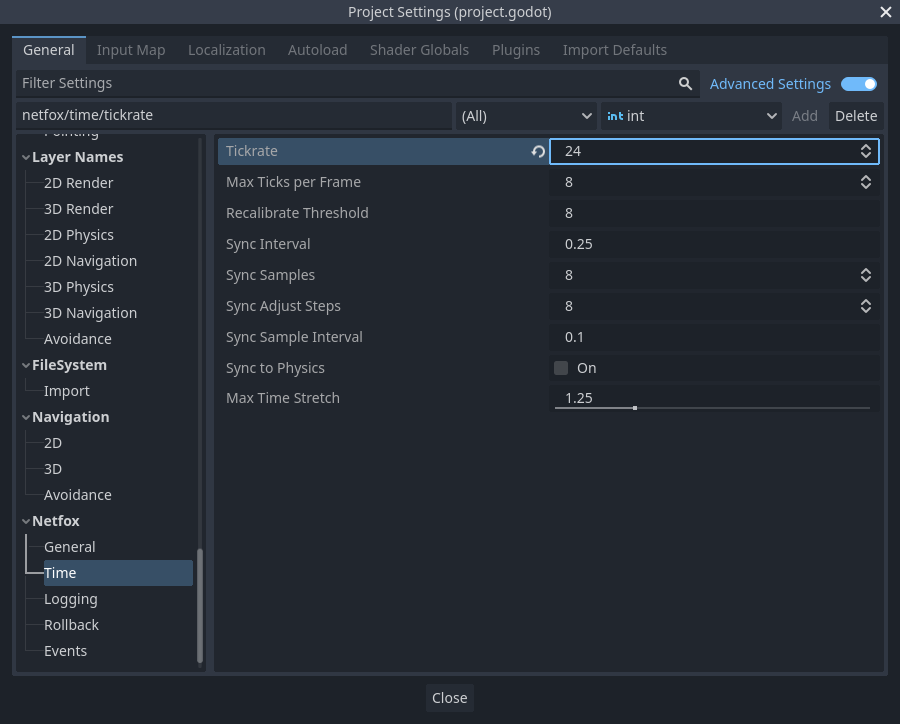
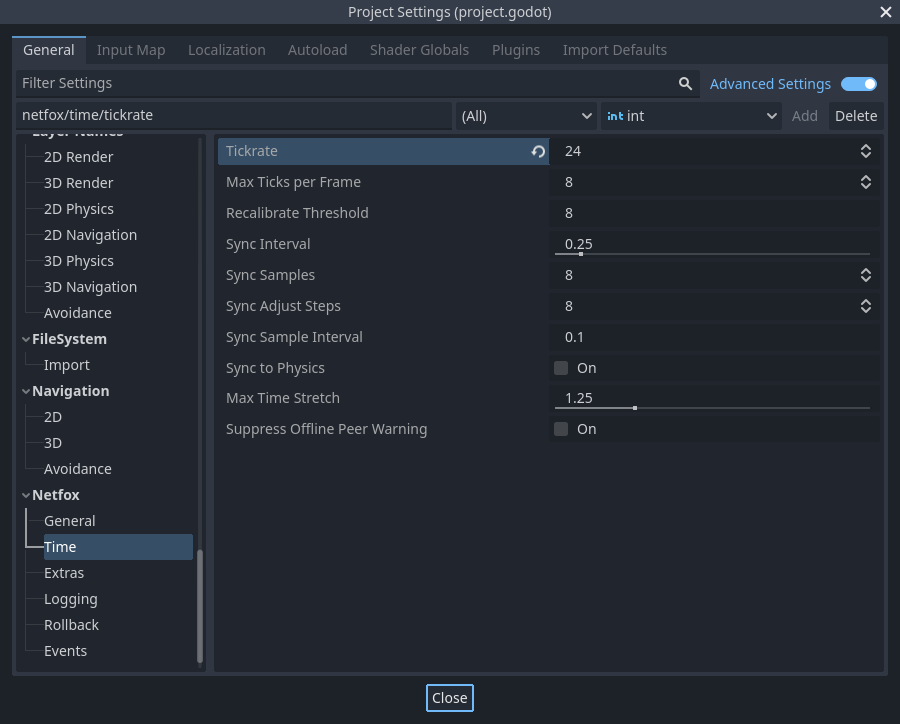
chore: Warn on invalid NetworkTime.start() calls

diff --git a/docs/netfox/guides/network-time.md b/docs/netfox/guides/network-time.md
@@ -197,4 +197,13 @@ resting time between roundtrip measurements.
 process when enabled. This can be useful in cases where a lot of physics
 operations need to be done as part of the tick- or the rollback loop.
 
+*Suppress Offline Peer Warning* suppresses warning when `NetworkTime.start()` is
+called with the active [multiplayer peer] being an [OfflineMultiplayerPeer]. In
+most cases, this warning means that the tick loop was unintentionally started
+before connecting to a game or hosting one. When this settings is enabled, the
+warning is not printed, instead assuming the [OfflineMultiplayerPeer] is
+intentional.
+
 [NetworkTimeSynchronizer]: ./network-time-synchronizer.md
+[multiplayer peer]: https://docs.godotengine.org/en/stable/classes/class_multiplayerapi.html#class-multiplayerapi-property-multiplayer-peer
+[OfflineMultiplayerPeer]: https://docs.godotengine.org/en/stable/classes/class_offlinemultiplayerpeer.html#class-offlinemultiplayerpeer
